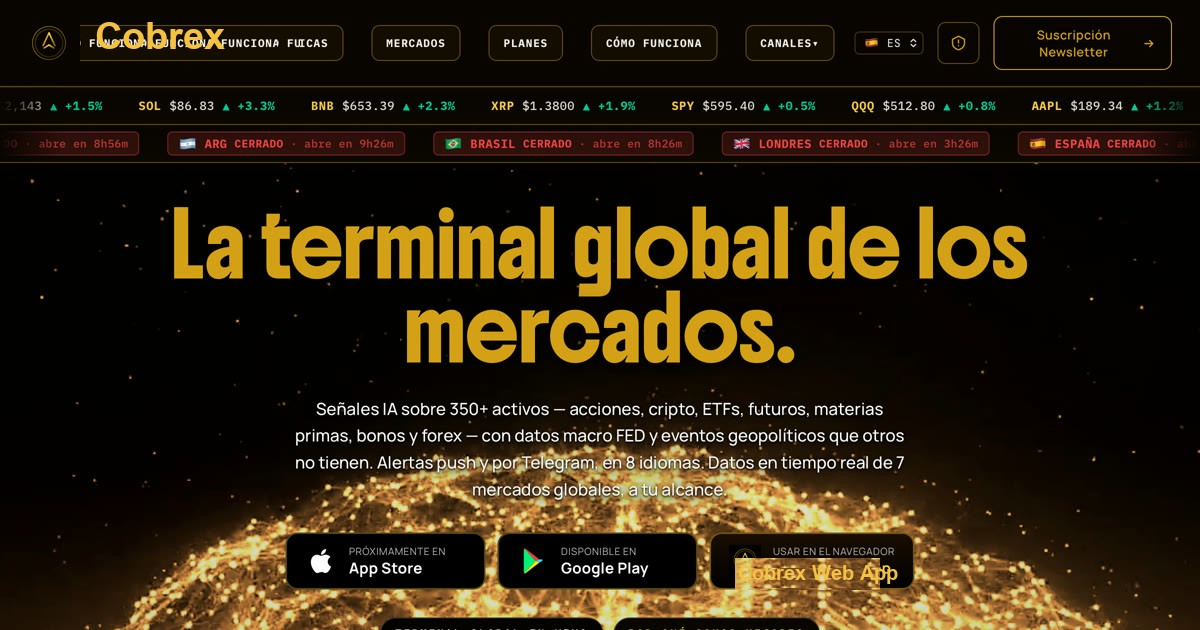
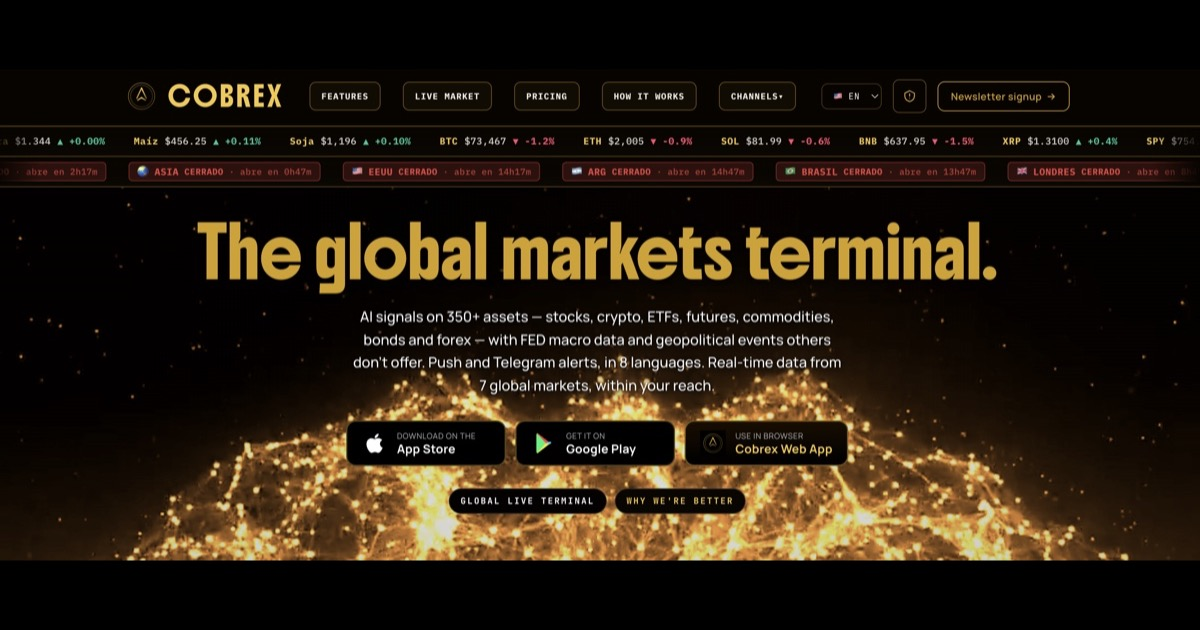
feat(og): preview WhatsApp en español + imagen hero Cobrex 1200x630

diff --git a/index.html b/index.html
@@ -14,20 +14,20 @@
 <!-- Open Graph for social previews -->
 <meta property="og:type" content="website">
 <meta property="og:url" content="https://cobrex.io/">
-<meta property="og:title" content="Cobrex — Your Global Assets Platform">
-<meta property="og:description" content="AI signals across 350+ assets in 8 languages. Real-time market data, smart price alerts, portfolio & watchlist.">
-<meta property="og:image" content="https://cobrex.io/assets/landing/og_hero.jpg">
-<meta property="og:image:secure_url" content="https://cobrex.io/assets/landing/og_hero.jpg">
+<meta property="og:title" content="COBREX — Terminal Global de Mercados">
+<meta property="og:description" content="Señales IA sobre 350+ activos en 8 idiomas. Datos macro FED, geopolítica y alertas Telegram.">
+<meta property="og:image" content="https://cobrex.io/assets/landing/og_hero.jpg?v=2">
+<meta property="og:image:secure_url" content="https://cobrex.io/assets/landing/og_hero.jpg?v=2">
 <meta property="og:image:type" content="image/jpeg">
 <meta property="og:image:width" content="1200">
 <meta property="og:image:height" content="630">
-<meta property="og:image:alt" content="Cobrex">
+<meta property="og:image:alt" content="COBREX — Terminal Global de Mercados">
 <meta property="og:site_name" content="Cobrex">
-<meta property="og:locale" content="en_US">
+<meta property="og:locale" content="es_AR">
 <meta name="twitter:card" content="summary_large_image">
-<meta name="twitter:title" content="Cobrex — Your Global Assets Platform">
-<meta name="twitter:description" content="Señales IA sobre 350+ activos en 8 idiomas. FED Macro + Telegram alerts.">
-<meta name="twitter:image" content="https://cobrex.io/assets/landing/og_hero.jpg">
+<meta name="twitter:title" content="COBREX — Terminal Global de Mercados">
+<meta name="twitter:description" content="Señales IA sobre 350+ activos en 8 idiomas. Datos macro FED, geopolítica y alertas Telegram.">
+<meta name="twitter:image" content="https://cobrex.io/assets/landing/og_hero.jpg?v=2">
 
 <!-- Fonts -->
 <link rel="preconnect" href="https://fonts.googleapis.com">
